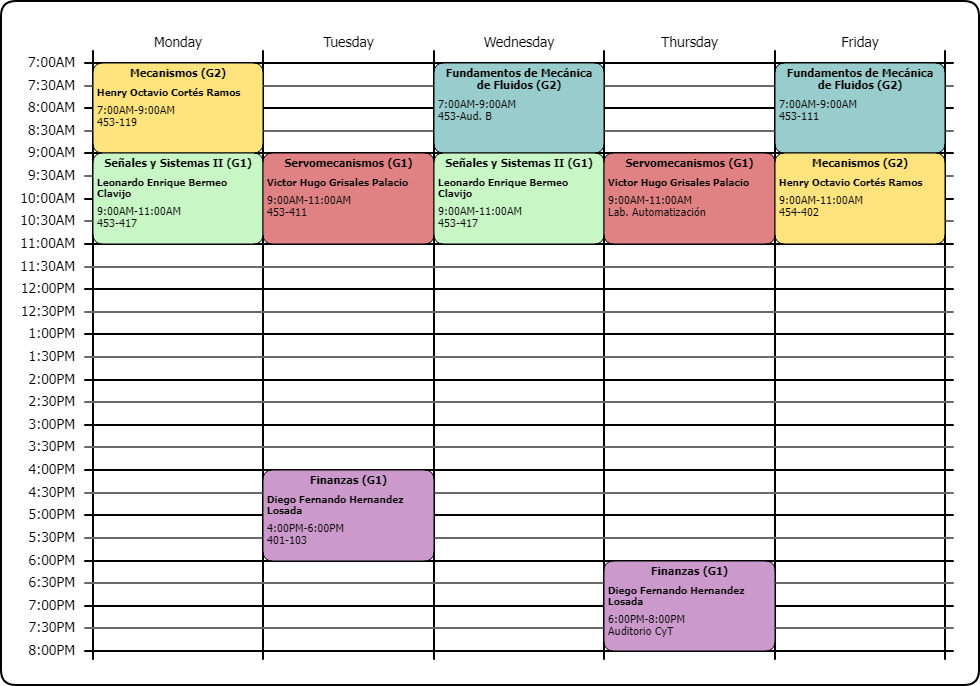
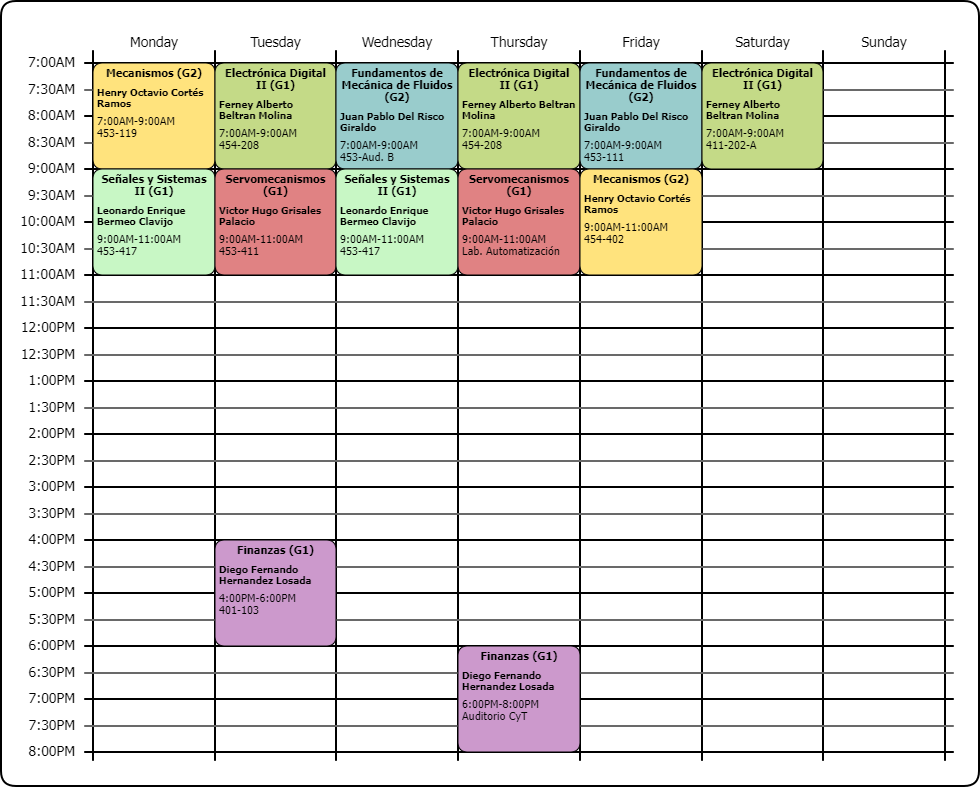
''

diff --git a/meetPages/main.html b/meetPages/main.html
@@ -122,8 +122,8 @@
 				</div>			
 			</div>
 
-			<div class = "col-md-4 col-sm-6 col-xs-12" style="display: none;">
-				<a href = ""><div id = "assignature-tile6"><span>No definido</span></div></a>
+			<div class = "col-md-4 col-sm-6 col-xs-12">
+				<a href = ""><div id = "assignature-tile6"><span>Electrónica Digital II</span></div></a>
 				<div class = "btn-group button-container" role = "group"> 				   
 				   <button id="btnGroupDrop1" type="button"
 				    class = "btn btn-secondary dropdown-toggle expandable-button"

diff --git a/meetPages/css/style.css b/meetPages/css/style.css
@@ -115,8 +115,9 @@ body {
 }
 
 #assignature-tile6 {
-	background: url('../images/micro.jpg') no-repeat;
-	background-position: center;
+	background: url('../images/electDigit.png') no-repeat;
+	background-size: 550px 250px;
+	background-position: -10px -75px;
 }
 
 #assignature-tile7 {
